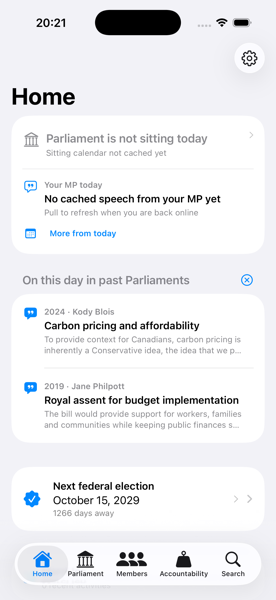
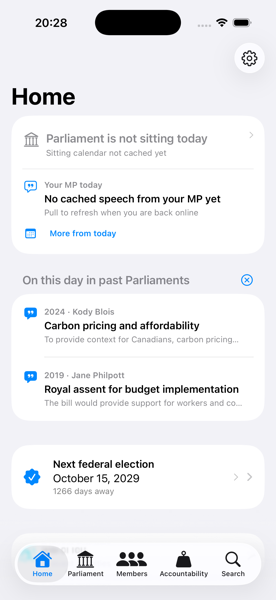
EPAC-470: tighten On This Day review fixes

diff --git a/ios/epac/Views/Home/HomeFeedView.swift b/ios/epac/Views/Home/HomeFeedView.swift
@@ -388,7 +388,13 @@ struct HomeFeedView: View {
         }
     }
 
-    private func todayMetricRow(icon: String, title: String, headline: String, detail: String) -> some View {
+    private func todayMetricRow(
+        icon: String,
+        title: String,
+        headline: String,
+        detail: String,
+        detailLineLimit: Int? = nil
+    ) -> some View {
         HStack(alignment: .top, spacing: EpacSpacing.s) {
             Image(systemName: icon)
                 .foregroundStyle(Color.epacBrand.accent)
@@ -405,6 +411,7 @@ struct HomeFeedView: View {
                 Text(detail)
                     .font(.epacCaption)
                     .foregroundStyle(Color.epacText.secondary)
+                    .lineLimit(detailLineLimit)
                     .fixedSize(horizontal: false, vertical: true)
             }
             Spacer()
@@ -428,7 +435,8 @@ struct HomeFeedView: View {
                         icon: item.kind == .vote ? "checkmark.ballot.fill" : "quote.bubble.fill",
                         title: item.detailText,
                         headline: item.title,
-                        detail: item.excerpt
+                        detail: item.excerpt,
+                        detailLineLimit: 1
                     )
                     .padding(.vertical, EpacSpacing.xs)
                 }
@@ -1254,6 +1262,7 @@ struct HomeFeedView: View {
                 router.selectedTab = .search
                 return
             }
+            prepareOnThisDaySpeechResume(item, subject: subject)
             selectedOnThisDaySpeech = OnThisDaySpeechSelection(hansard: hansard, subject: subject)
         } catch {
             Log.error("HomeFeedView on-this-day speech open failed: \(error.localizedDescription)")
@@ -1284,6 +1293,17 @@ struct HomeFeedView: View {
             return titleMatch
         }
         return subjects.first
+    }
+
+    private func prepareOnThisDaySpeechResume(_ item: OnThisDayItem, subject: SubjectOfBusiness) {
+        guard let interventionID = item.interventionID,
+              let speech = subject.speeches.first(where: { $0.hansardID == interventionID }) else {
+            return
+        }
+        subject.currentSpeech = speech
+        subject.currentSpeechID = speech.hansardID
+        speech.currentMessage = nil
+        speech.currentMessageID = nil
     }
 
     private static func trimmedExcerpt(_ text: String) -> String {
